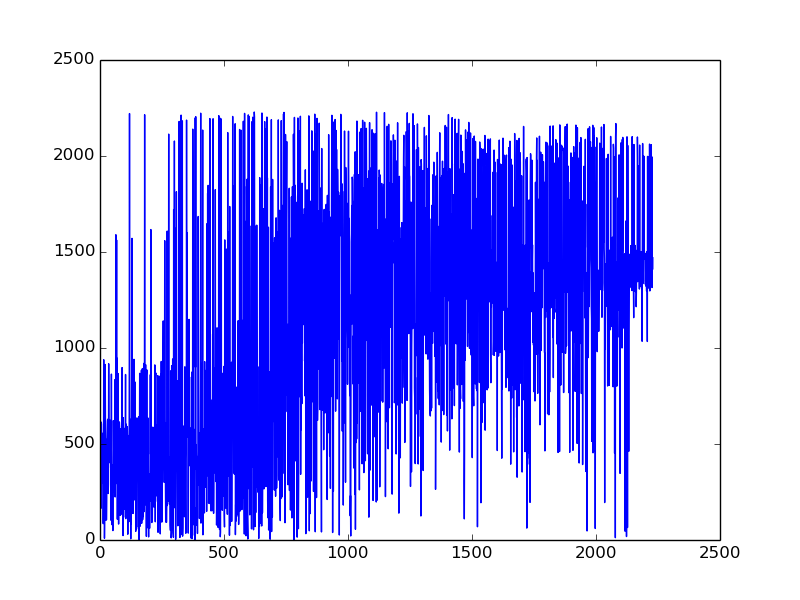
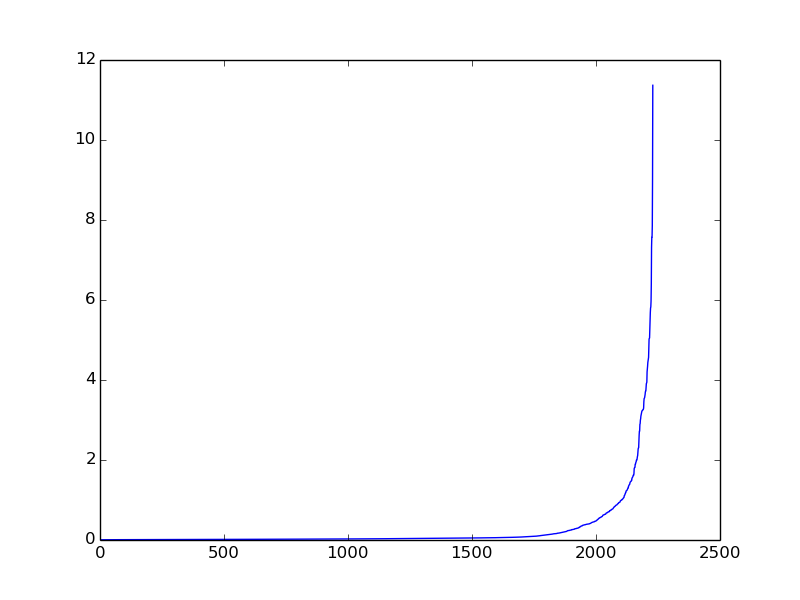
more plots added

diff --git a/SdA2.py b/SdA2.py
@@ -685,6 +685,7 @@ def test_SdA(nins,nouts,hidden_layer_sizes,corruption_levels,
     #y = y.reshape(2264,)
     normal_cost = numpy.array(normal_cost)
     #normal_cost = normal_cost.reshape(2264,)
-    plt.plot(normal_cost.argsort())
+    normal_cost = [normal_cost[i] for i in normal_cost.argsort()]
+    plt.plot(normal_cost)
     plt.savefig('recon_error_distribution.png')
     
